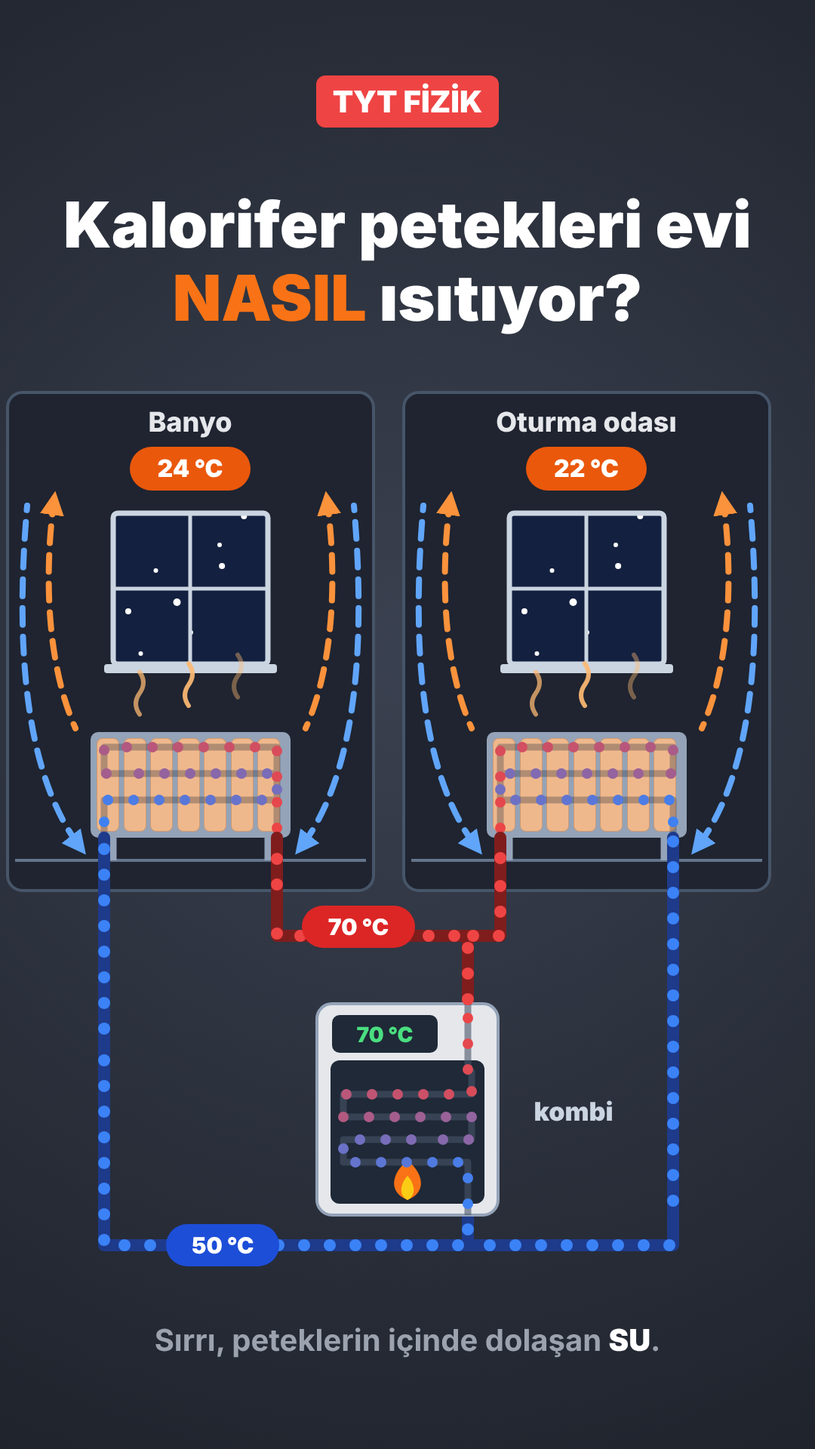
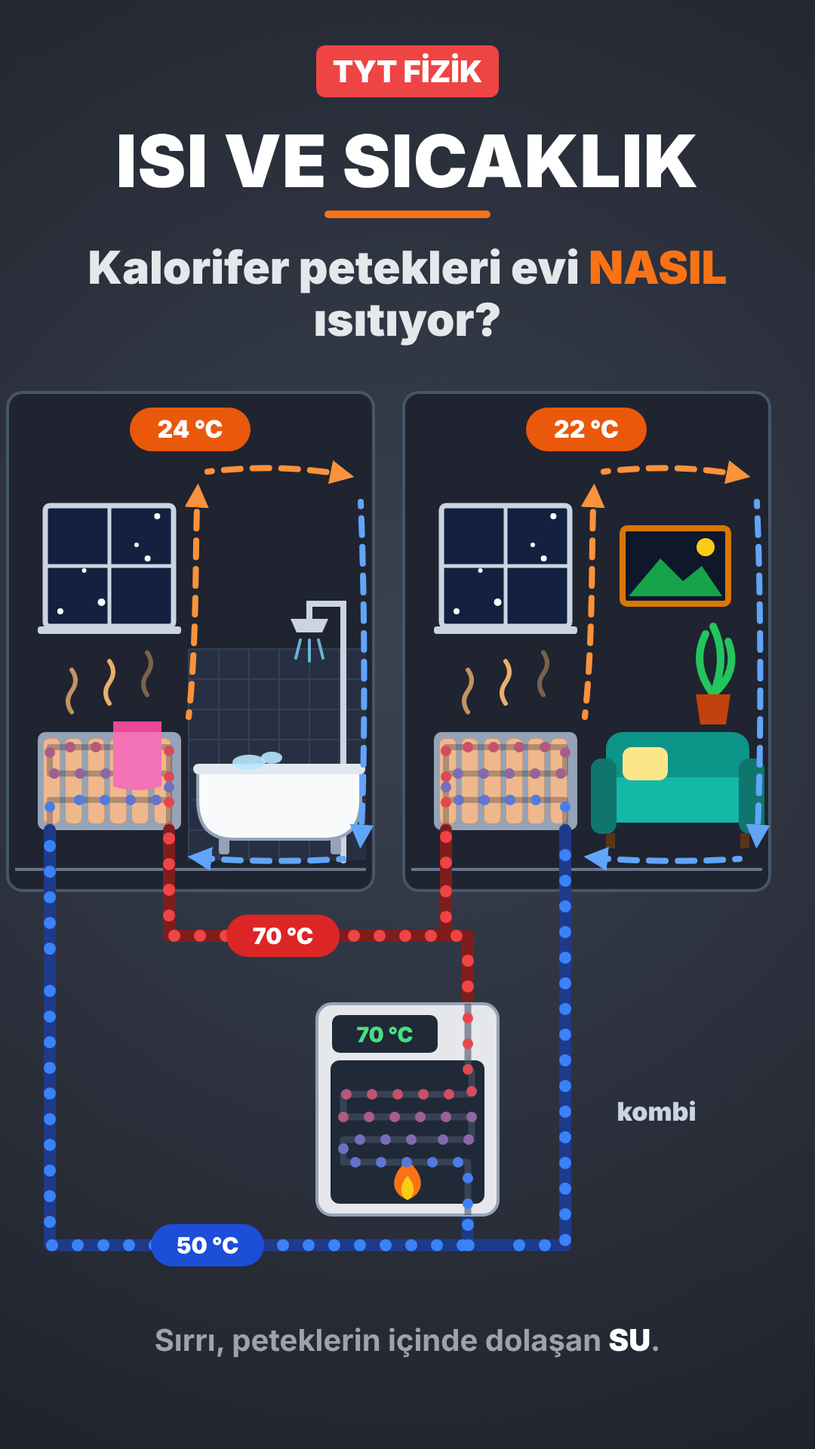
TYT Isı ve Sıcaklık: giriş karesi — büyük konu başlığı, odalar eşyalarla (banyo, oturma odası)
Claude-Session: https://claude.ai/code/session_01Xc7NeVxuRXWQCx2wXCgMJt

Changed region(s): [[0.0, 0.2812, 0.9472, 0.875], [0.0611, 0.0312, 0.9167, 0.25]]

diff --git a/tyt/konular/isi_sicaklik.html b/tyt/konular/isi_sicaklik.html
@@ -7,21 +7,24 @@
 <link rel="stylesheet" href="../ortak.css">
 <style>
 .sicak{--sc:#fb923c}
+.hk-baslik{position:absolute;left:0;right:0;top:165px;text-align:center;font:900 96px/1 Inter;color:#fff;letter-spacing:1px}
+.hk-baslik::after{content:"";display:block;width:220px;height:10px;border-radius:5px;background:var(--orange);margin:18px auto 0}
 .ax{stroke:#cbd5e1;stroke-width:4;fill:none}
 .cz{stroke:#fb923c;stroke-width:8;fill:none;stroke-linejoin:round;stroke-linecap:round}
 </style>
 </head>
 <body>
 
-<!-- ================= 1 · GİRİŞ (0:00–0:08) · koyu arka plan · iki oda + kombi su devresi =================
-     Banyo ve Oturma odası: pencere (kar), petek, sıcak hava, konveksiyon okları, oda sıcaklığı.
+<!-- ================= 1 · GİRİŞ (0:00–0:08) · koyu arka plan · büyük konu başlığı · iki oda + kombi su devresi =================
+     Odalar yazıyla değil eşyayla tanınır: banyo (fayans, duş, küvet, peteğin üstünde havlu), oturma odası (tablo, koltuk, bitki).
      Kombide ısınan su (mavi→kırmızı) iki odanın peteğine gider, orada soğur (kırmızı→mavi), kombiye döner.
-     Zaman (sn): 0.2–1.1 soru · 1.0 odalar · 1.3 kombi · 1.5 alev · 1.8 borular + petekler · 2.1 su akar ·
-     2.6 "70 °C" · 3.1 "50 °C" · 2.8–5.5 petekler ısınır · 3.4 sıcak hava · 4.0 konveksiyon ·
-     3.5–7 odalar 10→24 / 10→22 °C · 6.2 alt yazı. Toplam 8 sn. ?t=<sn> o anı, ?oynat=1 canlı oynatmayı gösterir. -->
+     Zaman (sn): 0 başlık · 0.4–1.3 soru · 1.0 odalar · 1.3 kombi · 1.5 alev · 1.8 borular + petekler · 2.1 su akar ·
+     2.6 "70 °C" · 3.1 "50 °C" · 2.8–5.5 petekler ısınır · 3.4 sıcak hava · 4.0 konveksiyon · 3.5–7 odalar 10→24 / 10→22 °C ·
+     6.2 alt yazı. Toplam 8 sn. ?t=<sn> o anı, ?oynat=1 canlı oynatmayı gösterir. -->
 <section class="sahne" id="giris">
-  <div class="hk-top"><span>TYT FİZİK</span></div>
-  <div class="hk-soru"><span class="k" data-i="0">Kalorifer</span> <span class="k" data-i="1">petekleri</span> <span class="k" data-i="2">evi</span> <span class="k" data-i="3"><em>NASIL</em></span> <span class="k" data-i="4">ısıtıyor?</span></div>
+  <div class="hk-top" style="top:70px"><span>TYT FİZİK</span></div>
+  <div class="hk-baslik" id="gBaslik">ISI VE SICAKLIK</div>
+  <div class="hk-soru" style="top:320px;font-size:60px;color:#e5e7eb"><span class="k" data-i="0">Kalorifer</span> <span class="k" data-i="1">petekleri</span> <span class="k" data-i="2">evi</span> <span class="k" data-i="3"><em>NASIL</em></span> <span class="k" data-i="4">ısıtıyor?</span></div>
   <svg viewBox="0 0 1080 1220" width="1080" height="1220" style="position:absolute;top:500px;left:0">
     <defs>
       <marker id="gOkT" viewBox="0 0 10 10" refX="7" refY="5" markerWidth="4" markerHeight="4" orient="auto"><path d="M0 0L10 5L0 10z" fill="#fb923c"/></marker>
@@ -29,76 +32,96 @@
     </defs>
     <g class="gOda" id="gBanyo">
       <rect x="10" y="20" width="485" height="660" rx="20" fill="#1f2430" stroke="#475569" stroke-width="4"/>
-      <text x="252" y="72" fill="#e5e7eb" font-family="Inter" font-size="36" font-weight="800" text-anchor="middle">Banyo</text>
-      <g class="odaEt"><rect x="172" y="92" width="160" height="58" rx="29" fill="#ea580c"/>
-        <text class="odaT" x="252" y="132" fill="#fff" font-family="Inter" font-size="32" font-weight="900" text-anchor="middle">10 °C</text></g>
+      <rect x="250" y="360" width="235" height="280" fill="#273042"/><line x1="250" y1="360" x2="485" y2="360" stroke="#334155" stroke-width="2"/><line x1="250" y1="400" x2="485" y2="400" stroke="#334155" stroke-width="2"/><line x1="250" y1="440" x2="485" y2="440" stroke="#334155" stroke-width="2"/><line x1="250" y1="480" x2="485" y2="480" stroke="#334155" stroke-width="2"/><line x1="250" y1="520" x2="485" y2="520" stroke="#334155" stroke-width="2"/><line x1="250" y1="560" x2="485" y2="560" stroke="#334155" stroke-width="2"/><line x1="250" y1="600" x2="485" y2="600" stroke="#334155" stroke-width="2"/><line x1="250" y1="360" x2="250" y2="640" stroke="#334155" stroke-width="2"/><line x1="290" y1="360" x2="290" y2="640" stroke="#334155" stroke-width="2"/><line x1="330" y1="360" x2="330" y2="640" stroke="#334155" stroke-width="2"/><line x1="370" y1="360" x2="370" y2="640" stroke="#334155" stroke-width="2"/><line x1="410" y1="360" x2="410" y2="640" stroke="#334155" stroke-width="2"/><line x1="450" y1="360" x2="450" y2="640" stroke="#334155" stroke-width="2"/>
+      <!-- duş -->
+      <path d="M455 640 V300 H410 V320" fill="none" stroke="#cbd5e1" stroke-width="8" stroke-linecap="round"/>
+      <path d="M385 320 h50 l-8 18 h-34 z" fill="#cbd5e1"/>
+      <g stroke="#7dd3fc" stroke-width="4" stroke-linecap="round" opacity=".8"><line x1="398" y1="348" x2="392" y2="372"/><line x1="410" y1="348" x2="410" y2="376"/><line x1="422" y1="348" x2="428" y2="372"/></g>
+      <!-- küvet -->
+      <path d="M262 520 H478 V560 Q478 612 430 612 H310 Q262 612 262 560 Z" fill="#f8fafc" stroke="#94a3b8" stroke-width="4"/>
+      <rect x="256" y="512" width="228" height="14" rx="7" fill="#e2e8f0"/>
+      <ellipse cx="330" cy="510" rx="22" ry="10" fill="#bae6fd" opacity=".9"/><ellipse cx="360" cy="504" rx="14" ry="8" fill="#bae6fd" opacity=".9"/>
+      <rect x="290" y="610" width="14" height="22" rx="4" fill="#94a3b8"/><rect x="438" y="610" width="14" height="22" rx="4" fill="#94a3b8"/>
+      <line x1="20" y1="652" x2="485" y2="652" stroke="#64748b" stroke-width="4"/>
+      <g class="odaEt"><rect x="172" y="40" width="160" height="58" rx="29" fill="#ea580c"/>
+        <text class="odaT" x="252" y="80" fill="#fff" font-family="Inter" font-size="32" font-weight="900" text-anchor="middle">10 °C</text></g>
       <!-- pencere -->
-      <clipPath id="kesgBanyo"><rect x="150" y="180" width="205" height="200"/></clipPath>
-      <rect x="150" y="180" width="205" height="200" rx="6" fill="#13203f"/>
-      <g clip-path="url(#kesgBanyo)"><circle class="kar" data-x="170" data-y="10" data-h="1.0" r="4" fill="#fff"/><circle class="kar" data-x="205" data-y="60" data-h="1.3" r="3" fill="#fff"/><circle class="kar" data-x="240" data-y="30" data-h="0.9" r="5" fill="#fff"/><circle class="kar" data-x="285" data-y="90" data-h="1.1" r="3" fill="#fff"/><circle class="kar" data-x="320" data-y="20" data-h="1.2" r="4" fill="#fff"/><circle class="kar" data-x="190" data-y="130" data-h="0.8" r="3" fill="#fff"/><circle class="kar" data-x="300" data-y="150" data-h="1.0" r="4" fill="#fff"/><circle class="kar" data-x="250" data-y="110" data-h="1.4" r="3" fill="#fff"/></g>
-      <rect x="150" y="180" width="205" height="200" rx="6" fill="none" stroke="#cbd5e1" stroke-width="7"/>
-      <line x1="252" y1="180" x2="252" y2="380" stroke="#cbd5e1" stroke-width="5"/>
-      <line x1="150" y1="280" x2="355" y2="280" stroke="#cbd5e1" stroke-width="5"/>
-      <rect x="138" y="380" width="229" height="12" rx="4" fill="#cbd5e1"/>
-      <line x1="20" y1="640" x2="485" y2="640" stroke="#64748b" stroke-width="4"/>
+      <clipPath id="kesgBanyo"><rect x="60" y="170" width="170" height="160"/></clipPath>
+      <rect x="60" y="170" width="170" height="160" rx="6" fill="#13203f"/>
+      <g clip-path="url(#kesgBanyo)"><circle class="kar" data-x="80" data-y="10" data-h="1.0" r="4" fill="#fff"/><circle class="kar" data-x="110" data-y="60" data-h="1.3" r="3" fill="#fff"/><circle class="kar" data-x="140" data-y="30" data-h="0.9" r="5" fill="#fff"/><circle class="kar" data-x="175" data-y="90" data-h="1.1" r="3" fill="#fff"/><circle class="kar" data-x="205" data-y="20" data-h="1.2" r="4" fill="#fff"/><circle class="kar" data-x="95" data-y="120" data-h="0.8" r="3" fill="#fff"/><circle class="kar" data-x="190" data-y="140" data-h="1.0" r="4" fill="#fff"/></g>
+      <rect x="60" y="170" width="170" height="160" rx="6" fill="none" stroke="#cbd5e1" stroke-width="7"/>
+      <line x1="145" y1="170" x2="145" y2="330" stroke="#cbd5e1" stroke-width="5"/>
+      <line x1="60" y1="250" x2="230" y2="250" stroke="#cbd5e1" stroke-width="5"/>
+      <rect x="50" y="330" width="190" height="10" rx="4" fill="#cbd5e1"/>
       <!-- petek -->
       <g class="gPetek">
-        <rect x="120" y="470" width="265" height="140" rx="10" fill="#94a3b8"/>
-        <rect x="128" y="478" width="30" height="124" rx="8" fill="#e2e8f0" stroke="#94a3b8" stroke-width="2"/><rect x="164" y="478" width="30" height="124" rx="8" fill="#e2e8f0" stroke="#94a3b8" stroke-width="2"/><rect x="199" y="478" width="30" height="124" rx="8" fill="#e2e8f0" stroke="#94a3b8" stroke-width="2"/><rect x="235" y="478" width="30" height="124" rx="8" fill="#e2e8f0" stroke="#94a3b8" stroke-width="2"/><rect x="270" y="478" width="30" height="124" rx="8" fill="#e2e8f0" stroke="#94a3b8" stroke-width="2"/><rect x="306" y="478" width="30" height="124" rx="8" fill="#e2e8f0" stroke="#94a3b8" stroke-width="2"/><rect x="341" y="478" width="30" height="124" rx="8" fill="#e2e8f0" stroke="#94a3b8" stroke-width="2"/>
-        <g class="gIsi" opacity="0"><rect x="128" y="478" width="30" height="124" rx="8" fill="#fb923c"/><rect x="164" y="478" width="30" height="124" rx="8" fill="#fb923c"/><rect x="199" y="478" width="30" height="124" rx="8" fill="#fb923c"/><rect x="235" y="478" width="30" height="124" rx="8" fill="#fb923c"/><rect x="270" y="478" width="30" height="124" rx="8" fill="#fb923c"/><rect x="306" y="478" width="30" height="124" rx="8" fill="#fb923c"/><rect x="341" y="478" width="30" height="124" rx="8" fill="#fb923c"/></g>
-        <path d="M367 610 V490 H138 V525 H367 V560 H138 V610" fill="none" stroke="#1e293b" stroke-width="9" stroke-linejoin="round" opacity=".3"/>
-        <path class="yol ic" d="M367 610 V490 H138 V525 H367 V560 H138 V610" fill="none" stroke="none"/>
-        <line x1="150" y1="610" x2="150" y2="640" stroke="#94a3b8" stroke-width="9"/>
-        <line x1="355" y1="610" x2="355" y2="640" stroke="#94a3b8" stroke-width="9"/>
+        <rect x="50" y="470" width="190" height="130" rx="10" fill="#94a3b8"/>
+        <rect x="57" y="478" width="23" height="114" rx="8" fill="#e2e8f0" stroke="#94a3b8" stroke-width="2"/><rect x="86" y="478" width="23" height="114" rx="8" fill="#e2e8f0" stroke="#94a3b8" stroke-width="2"/><rect x="116" y="478" width="23" height="114" rx="8" fill="#e2e8f0" stroke="#94a3b8" stroke-width="2"/><rect x="145" y="478" width="23" height="114" rx="8" fill="#e2e8f0" stroke="#94a3b8" stroke-width="2"/><rect x="174" y="478" width="23" height="114" rx="8" fill="#e2e8f0" stroke="#94a3b8" stroke-width="2"/><rect x="204" y="478" width="23" height="114" rx="8" fill="#e2e8f0" stroke="#94a3b8" stroke-width="2"/>
+        <g class="gIsi" opacity="0"><rect x="57" y="478" width="23" height="114" rx="8" fill="#fb923c"/><rect x="86" y="478" width="23" height="114" rx="8" fill="#fb923c"/><rect x="116" y="478" width="23" height="114" rx="8" fill="#fb923c"/><rect x="145" y="478" width="23" height="114" rx="8" fill="#fb923c"/><rect x="174" y="478" width="23" height="114" rx="8" fill="#fb923c"/><rect x="204" y="478" width="23" height="114" rx="8" fill="#fb923c"/></g>
+        <path d="M224 600 V490 H66 V525 H224 V560 H66 V600" fill="none" stroke="#1e293b" stroke-width="8" stroke-linejoin="round" opacity=".3"/>
+        <path class="yol ic" d="M224 600 V490 H66 V525 H224 V560 H66 V600" fill="none" stroke="none"/>
       </g>
-      <path class="dalga" data-i="0" d="M185 458 q-10 -14 0 -28 q10 -14 0 -28" fill="none" stroke="#fdba74" stroke-width="6" stroke-linecap="round"/><path class="dalga" data-i="1" d="M250 458 q-10 -14 0 -28 q10 -14 0 -28" fill="none" stroke="#fdba74" stroke-width="6" stroke-linecap="round"/><path class="dalga" data-i="2" d="M315 458 q-10 -14 0 -28 q10 -14 0 -28" fill="none" stroke="#fdba74" stroke-width="6" stroke-linecap="round"/>
-      <!-- konveksiyon -->
+      <!-- peteğin üstüne asılı havlu -->
+      <path d="M150 456 h64 v86 q-32 10 -64 0 z" fill="#f472b6"/><rect x="150" y="456" width="64" height="14" fill="#ec4899"/>
+      
+      <path class="dalga" data-i="0" d="M95 455 q-10 -14 0 -28 q10 -14 0 -28" fill="none" stroke="#fdba74" stroke-width="6" stroke-linecap="round"/><path class="dalga" data-i="1" d="M145 455 q-10 -14 0 -28 q10 -14 0 -28" fill="none" stroke="#fdba74" stroke-width="6" stroke-linecap="round"/><path class="dalga" data-i="2" d="M195 455 q-10 -14 0 -28 q10 -14 0 -28" fill="none" stroke="#fdba74" stroke-width="6" stroke-linecap="round"/>
+      <!-- konveksiyon: petekten yükselir, tavanda ilerler, karşı duvardan iner, yerden geri döner -->
       <g fill="none" stroke-width="8" stroke-linecap="round">
-        <path class="akis" d="M100 465 C 62 380, 58 260, 72 160" stroke="#fb923c" marker-end="url(#gOkT)"/>
-        <path class="akis" d="M405 465 C 443 380, 447 260, 433 160" stroke="#fb923c" marker-end="url(#gOkT)"/>
-        <path class="akis" d="M36 170 C 22 330, 26 520, 108 625" stroke="#60a5fa" marker-end="url(#gOkM)"/>
-        <path class="akis" d="M469 170 C 483 330, 479 520, 397 625" stroke="#60a5fa" marker-end="url(#gOkM)"/>
+        <path class="akis" d="M250 450 C 262 340, 258 220, 262 150" stroke="#fb923c" marker-end="url(#gOkT)"/>
+        <path class="akis" d="M275 125 C 330 118, 400 118, 460 130" stroke="#fb923c" marker-end="url(#gOkT)"/>
+        <path class="akis" d="M478 165 C 484 300, 484 520, 478 615" stroke="#60a5fa" marker-end="url(#gOkM)"/>
+        <path class="akis" d="M455 638 C 400 642, 320 642, 258 636" stroke="#60a5fa" marker-end="url(#gOkM)"/>
       </g>
     </g>
     <g class="gOda" id="gOturma">
       <rect x="535" y="20" width="485" height="660" rx="20" fill="#1f2430" stroke="#475569" stroke-width="4"/>
-      <text x="777" y="72" fill="#e5e7eb" font-family="Inter" font-size="36" font-weight="800" text-anchor="middle">Oturma odası</text>
-      <g class="odaEt"><rect x="697" y="92" width="160" height="58" rx="29" fill="#ea580c"/>
-        <text class="odaT" x="777" y="132" fill="#fff" font-family="Inter" font-size="32" font-weight="900" text-anchor="middle">10 °C</text></g>
+      <!-- tablo -->
+      <rect x="825" y="200" width="140" height="100" rx="6" fill="#0f172a" stroke="#d97706" stroke-width="8"/>
+      <path d="M833 290 L875 240 L905 270 L930 250 L957 290 Z" fill="#16a34a"/><circle cx="935" cy="225" r="12" fill="#facc15"/>
+      <!-- koltuk -->
+      <rect x="803" y="470" width="190" height="80" rx="22" fill="#0d9488"/>
+      <rect x="791" y="530" width="214" height="60" rx="18" fill="#14b8a6"/>
+      <rect x="783" y="505" width="34" height="100" rx="14" fill="#0f766e"/><rect x="979" y="505" width="34" height="100" rx="14" fill="#0f766e"/>
+      <rect x="825" y="490" width="60" height="44" rx="12" fill="#fde68a"/>
+      <rect x="803" y="604" width="12" height="20" fill="#5b3417"/><rect x="981" y="604" width="12" height="20" fill="#5b3417"/>
+      <!-- bitki -->
+      <path d="M945 420 q-30 -40 -10 -80 M945 420 q20 -50 0 -90 M945 420 q35 -30 20 -70" fill="none" stroke="#22c55e" stroke-width="10" stroke-linecap="round"/>
+      <path d="M922 420 h46 l-6 40 h-34 z" fill="#c2410c"/>
+      <line x1="545" y1="652" x2="1010" y2="652" stroke="#64748b" stroke-width="4"/>
+      <g class="odaEt"><rect x="697" y="40" width="160" height="58" rx="29" fill="#ea580c"/>
+        <text class="odaT" x="777" y="80" fill="#fff" font-family="Inter" font-size="32" font-weight="900" text-anchor="middle">10 °C</text></g>
       <!-- pencere -->
-      <clipPath id="kesgOturma"><rect x="675" y="180" width="205" height="200"/></clipPath>
-      <rect x="675" y="180" width="205" height="200" rx="6" fill="#13203f"/>
-      <g clip-path="url(#kesgOturma)"><circle class="kar" data-x="695" data-y="10" data-h="1.0" r="4" fill="#fff"/><circle class="kar" data-x="730" data-y="60" data-h="1.3" r="3" fill="#fff"/><circle class="kar" data-x="765" data-y="30" data-h="0.9" r="5" fill="#fff"/><circle class="kar" data-x="810" data-y="90" data-h="1.1" r="3" fill="#fff"/><circle class="kar" data-x="845" data-y="20" data-h="1.2" r="4" fill="#fff"/><circle class="kar" data-x="715" data-y="130" data-h="0.8" r="3" fill="#fff"/><circle class="kar" data-x="825" data-y="150" data-h="1.0" r="4" fill="#fff"/><circle class="kar" data-x="775" data-y="110" data-h="1.4" r="3" fill="#fff"/></g>
-      <rect x="675" y="180" width="205" height="200" rx="6" fill="none" stroke="#cbd5e1" stroke-width="7"/>
-      <line x1="777" y1="180" x2="777" y2="380" stroke="#cbd5e1" stroke-width="5"/>
-      <line x1="675" y1="280" x2="880" y2="280" stroke="#cbd5e1" stroke-width="5"/>
-      <rect x="663" y="380" width="229" height="12" rx="4" fill="#cbd5e1"/>
-      <line x1="545" y1="640" x2="1010" y2="640" stroke="#64748b" stroke-width="4"/>
+      <clipPath id="kesgOturma"><rect x="585" y="170" width="170" height="160"/></clipPath>
+      <rect x="585" y="170" width="170" height="160" rx="6" fill="#13203f"/>
+      <g clip-path="url(#kesgOturma)"><circle class="kar" data-x="605" data-y="10" data-h="1.0" r="4" fill="#fff"/><circle class="kar" data-x="635" data-y="60" data-h="1.3" r="3" fill="#fff"/><circle class="kar" data-x="665" data-y="30" data-h="0.9" r="5" fill="#fff"/><circle class="kar" data-x="700" data-y="90" data-h="1.1" r="3" fill="#fff"/><circle class="kar" data-x="730" data-y="20" data-h="1.2" r="4" fill="#fff"/><circle class="kar" data-x="620" data-y="120" data-h="0.8" r="3" fill="#fff"/><circle class="kar" data-x="715" data-y="140" data-h="1.0" r="4" fill="#fff"/></g>
+      <rect x="585" y="170" width="170" height="160" rx="6" fill="none" stroke="#cbd5e1" stroke-width="7"/>
+      <line x1="670" y1="170" x2="670" y2="330" stroke="#cbd5e1" stroke-width="5"/>
+      <line x1="585" y1="250" x2="755" y2="250" stroke="#cbd5e1" stroke-width="5"/>
+      <rect x="575" y="330" width="190" height="10" rx="4" fill="#cbd5e1"/>
       <!-- petek -->
       <g class="gPetek">
-        <rect x="645" y="470" width="265" height="140" rx="10" fill="#94a3b8"/>
-        <rect x="653" y="478" width="30" height="124" rx="8" fill="#e2e8f0" stroke="#94a3b8" stroke-width="2"/><rect x="689" y="478" width="30" height="124" rx="8" fill="#e2e8f0" stroke="#94a3b8" stroke-width="2"/><rect x="724" y="478" width="30" height="124" rx="8" fill="#e2e8f0" stroke="#94a3b8" stroke-width="2"/><rect x="760" y="478" width="30" height="124" rx="8" fill="#e2e8f0" stroke="#94a3b8" stroke-width="2"/><rect x="795" y="478" width="30" height="124" rx="8" fill="#e2e8f0" stroke="#94a3b8" stroke-width="2"/><rect x="831" y="478" width="30" height="124" rx="8" fill="#e2e8f0" stroke="#94a3b8" stroke-width="2"/><rect x="866" y="478" width="30" height="124" rx="8" fill="#e2e8f0" stroke="#94a3b8" stroke-width="2"/>
-        <g class="gIsi" opacity="0"><rect x="653" y="478" width="30" height="124" rx="8" fill="#fb923c"/><rect x="689" y="478" width="30" height="124" rx="8" fill="#fb923c"/><rect x="724" y="478" width="30" height="124" rx="8" fill="#fb923c"/><rect x="760" y="478" width="30" height="124" rx="8" fill="#fb923c"/><rect x="795" y="478" width="30" height="124" rx="8" fill="#fb923c"/><rect x="831" y="478" width="30" height="124" rx="8" fill="#fb923c"/><rect x="866" y="478" width="30" height="124" rx="8" fill="#fb923c"/></g>
-        <path d="M663 610 V490 H892 V525 H663 V560 H892 V610" fill="none" stroke="#1e293b" stroke-width="9" stroke-linejoin="round" opacity=".3"/>
-        <path class="yol ic" d="M663 610 V490 H892 V525 H663 V560 H892 V610" fill="none" stroke="none"/>
-        <line x1="675" y1="610" x2="675" y2="640" stroke="#94a3b8" stroke-width="9"/>
-        <line x1="880" y1="610" x2="880" y2="640" stroke="#94a3b8" stroke-width="9"/>
+        <rect x="575" y="470" width="190" height="130" rx="10" fill="#94a3b8"/>
+        <rect x="582" y="478" width="23" height="114" rx="8" fill="#e2e8f0" stroke="#94a3b8" stroke-width="2"/><rect x="611" y="478" width="23" height="114" rx="8" fill="#e2e8f0" stroke="#94a3b8" stroke-width="2"/><rect x="641" y="478" width="23" height="114" rx="8" fill="#e2e8f0" stroke="#94a3b8" stroke-width="2"/><rect x="670" y="478" width="23" height="114" rx="8" fill="#e2e8f0" stroke="#94a3b8" stroke-width="2"/><rect x="699" y="478" width="23" height="114" rx="8" fill="#e2e8f0" stroke="#94a3b8" stroke-width="2"/><rect x="729" y="478" width="23" height="114" rx="8" fill="#e2e8f0" stroke="#94a3b8" stroke-width="2"/>
+        <g class="gIsi" opacity="0"><rect x="582" y="478" width="23" height="114" rx="8" fill="#fb923c"/><rect x="611" y="478" width="23" height="114" rx="8" fill="#fb923c"/><rect x="641" y="478" width="23" height="114" rx="8" fill="#fb923c"/><rect x="670" y="478" width="23" height="114" rx="8" fill="#fb923c"/><rect x="699" y="478" width="23" height="114" rx="8" fill="#fb923c"/><rect x="729" y="478" width="23" height="114" rx="8" fill="#fb923c"/></g>
+        <path d="M591 600 V490 H749 V525 H591 V560 H749 V600" fill="none" stroke="#1e293b" stroke-width="8" stroke-linejoin="round" opacity=".3"/>
+        <path class="yol ic" d="M591 600 V490 H749 V525 H591 V560 H749 V600" fill="none" stroke="none"/>
       </g>
-      <path class="dalga" data-i="0" d="M710 458 q-10 -14 0 -28 q10 -14 0 -28" fill="none" stroke="#fdba74" stroke-width="6" stroke-linecap="round"/><path class="dalga" data-i="1" d="M775 458 q-10 -14 0 -28 q10 -14 0 -28" fill="none" stroke="#fdba74" stroke-width="6" stroke-linecap="round"/><path class="dalga" data-i="2" d="M840 458 q-10 -14 0 -28 q10 -14 0 -28" fill="none" stroke="#fdba74" stroke-width="6" stroke-linecap="round"/>
-      <!-- konveksiyon -->
+      
+      <path class="dalga" data-i="0" d="M620 455 q-10 -14 0 -28 q10 -14 0 -28" fill="none" stroke="#fdba74" stroke-width="6" stroke-linecap="round"/><path class="dalga" data-i="1" d="M670 455 q-10 -14 0 -28 q10 -14 0 -28" fill="none" stroke="#fdba74" stroke-width="6" stroke-linecap="round"/><path class="dalga" data-i="2" d="M720 455 q-10 -14 0 -28 q10 -14 0 -28" fill="none" stroke="#fdba74" stroke-width="6" stroke-linecap="round"/>
+      <!-- konveksiyon: petekten yükselir, tavanda ilerler, karşı duvardan iner, yerden geri döner -->
       <g fill="none" stroke-width="8" stroke-linecap="round">
-        <path class="akis" d="M625 465 C 587 380, 583 260, 597 160" stroke="#fb923c" marker-end="url(#gOkT)"/>
-        <path class="akis" d="M930 465 C 968 380, 972 260, 958 160" stroke="#fb923c" marker-end="url(#gOkT)"/>
-        <path class="akis" d="M561 170 C 547 330, 551 520, 633 625" stroke="#60a5fa" marker-end="url(#gOkM)"/>
-        <path class="akis" d="M994 170 C 1008 330, 1004 520, 922 625" stroke="#60a5fa" marker-end="url(#gOkM)"/>
+        <path class="akis" d="M775 450 C 787 340, 783 220, 787 150" stroke="#fb923c" marker-end="url(#gOkT)"/>
+        <path class="akis" d="M800 125 C 855 118, 925 118, 985 130" stroke="#fb923c" marker-end="url(#gOkT)"/>
+        <path class="akis" d="M1003 165 C 1009 300, 1009 520, 1003 615" stroke="#60a5fa" marker-end="url(#gOkM)"/>
+        <path class="akis" d="M980 638 C 925 642, 845 642, 783 636" stroke="#60a5fa" marker-end="url(#gOkM)"/>
       </g>
     </g>
     <!-- borular -->
     <g id="gBoru" fill="none" stroke-linecap="round" stroke-linejoin="round">
-      <path d="M620 830 V740 H367 V610" stroke="#7f1d1d" stroke-width="16"/>
-      <path d="M620 740 H663 V610" stroke="#7f1d1d" stroke-width="16"/>
-      <path d="M138 610 V1150 H620 V1110" stroke="#1e3a8a" stroke-width="16"/>
-      <path d="M892 610 V1150 H620" stroke="#1e3a8a" stroke-width="16"/>
+      <path d="M620 830 V740 H224 V600" stroke="#7f1d1d" stroke-width="16"/>
+      <path d="M591 740 V600" stroke="#7f1d1d" stroke-width="16"/>
+      <path d="M66 600 V1150 H620 V1110" stroke="#1e3a8a" stroke-width="16"/>
+      <path d="M749 600 V1150 H620" stroke="#1e3a8a" stroke-width="16"/>
     </g>
     <!-- kombi -->
     <g id="gKombi" font-family="Inter" font-weight="900" text-anchor="middle">
@@ -112,16 +135,16 @@
         <path d="M0 0 C -28 -10, -22 -36, 0 -52 C 22 -36, 28 -10, 0 0 Z" fill="#f97316"/>
         <path d="M0 0 C -13 -6, -10 -22, 0 -32 C 10 -22, 13 -6, 0 0 Z" fill="#facc15"/>
       </g>
-      <text x="760" y="985" fill="#cbd5e1" font-size="34">kombi</text>
+      <text x="870" y="985" fill="#cbd5e1" font-size="34">kombi</text>
     </g>
-    <path class="yol sicak" d="M620 830 V740 H367 V610" fill="none" stroke="none"/>
-    <path class="yol sicak" d="M620 740 H663 V610" fill="none" stroke="none"/>
-    <path class="yol soguk" d="M138 610 V1150 H620 V1110" fill="none" stroke="none"/>
-    <path class="yol soguk" d="M892 610 V1150 H620" fill="none" stroke="none"/>
+    <path class="yol sicak" d="M620 830 V740 H224 V600" fill="none" stroke="none"/>
+    <path class="yol sicak" d="M591 740 V600" fill="none" stroke="none"/>
+    <path class="yol soguk" d="M66 600 V1150 H620 V1110" fill="none" stroke="none"/>
+    <path class="yol soguk" d="M749 600 V1150 H620" fill="none" stroke="none"/>
     <g id="gDamla"></g>
     <g font-family="Inter" font-weight="900" text-anchor="middle">
-      <g id="gEtS"><rect x="400" y="700" width="150" height="56" rx="28" fill="#dc2626"/><text x="475" y="739" fill="#fff" font-size="30">70 °C</text></g>
-      <g id="gEtC"><rect x="220" y="1122" width="150" height="56" rx="28" fill="#1d4ed8"/><text x="295" y="1161" fill="#fff" font-size="30">50 °C</text></g>
+      <g id="gEtS"><rect x="300" y="712" width="150" height="56" rx="28" fill="#dc2626"/><text x="375" y="751" fill="#fff" font-size="30">70 °C</text></g>
+      <g id="gEtC"><rect x="200" y="1122" width="150" height="56" rx="28" fill="#1d4ed8"/><text x="275" y="1161" fill="#fff" font-size="30">50 °C</text></g>
     </g>
   </svg>
   <div class="hk-alt" id="gAlt" style="bottom:120px">Sırrı, peteklerin içinde dolaşan <b style="color:#fff">SU</b>.</div>
@@ -390,7 +413,7 @@ function damlaKur(){damlalar=[];const g=$('gDamla');
       (tur==='ic'||tur==='isit'?y.parentNode:g).appendChild(c);damlalar.push({c,y,L,i,tur});}});}
 window.ciz=function(t){
   if(!damlalar)damlaKur();
-  document.querySelectorAll('#giris .k').forEach(k=>{const i=+k.dataset.i, a=yumusak(gir(t,.2+i*.18,.3));
+  document.querySelectorAll('#giris .k').forEach(k=>{const i=+k.dataset.i, a=yumusak(gir(t,.4+i*.18,.3));
     k.style.opacity=a; k.style.display='inline-block'; k.style.transform=`translateY(${(1-a)*24}px)`;});
   document.querySelectorAll('#giris .gOda').forEach(o=>o.style.opacity=yumusak(gir(t,1.0,.5)));
   document.querySelectorAll('#giris .kar').forEach(c=>{const h=+c.dataset.h, y0=+c.dataset.y;
